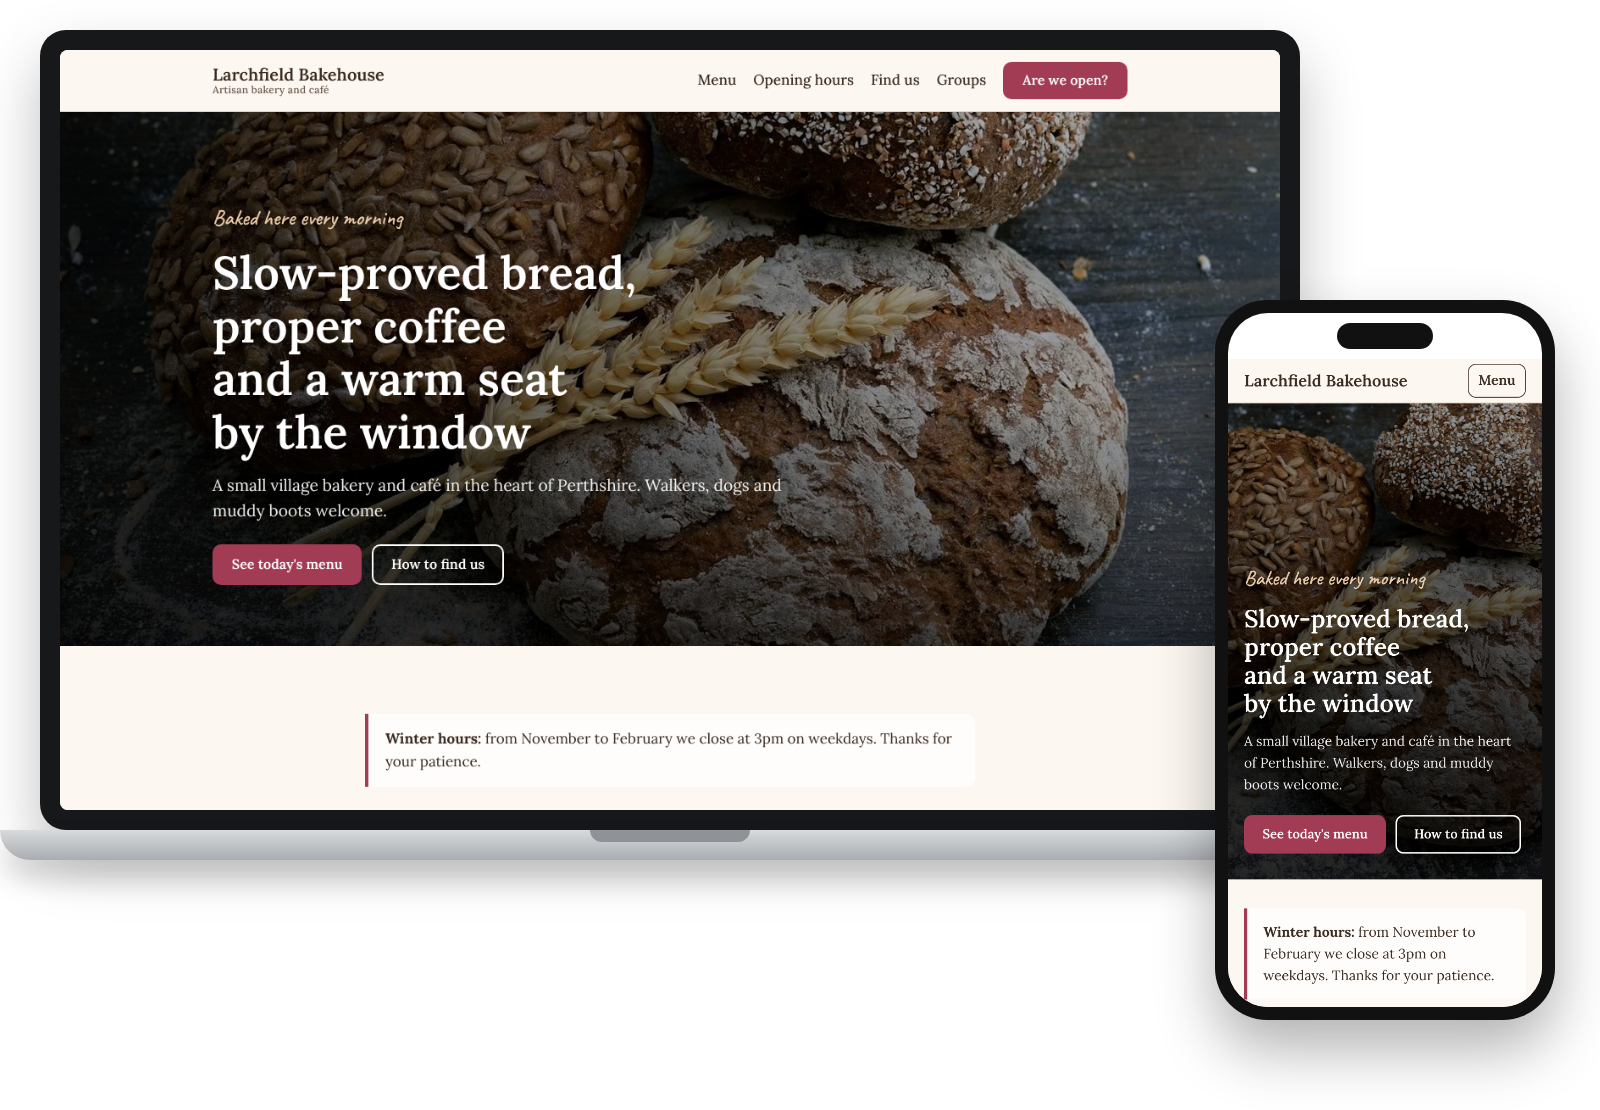
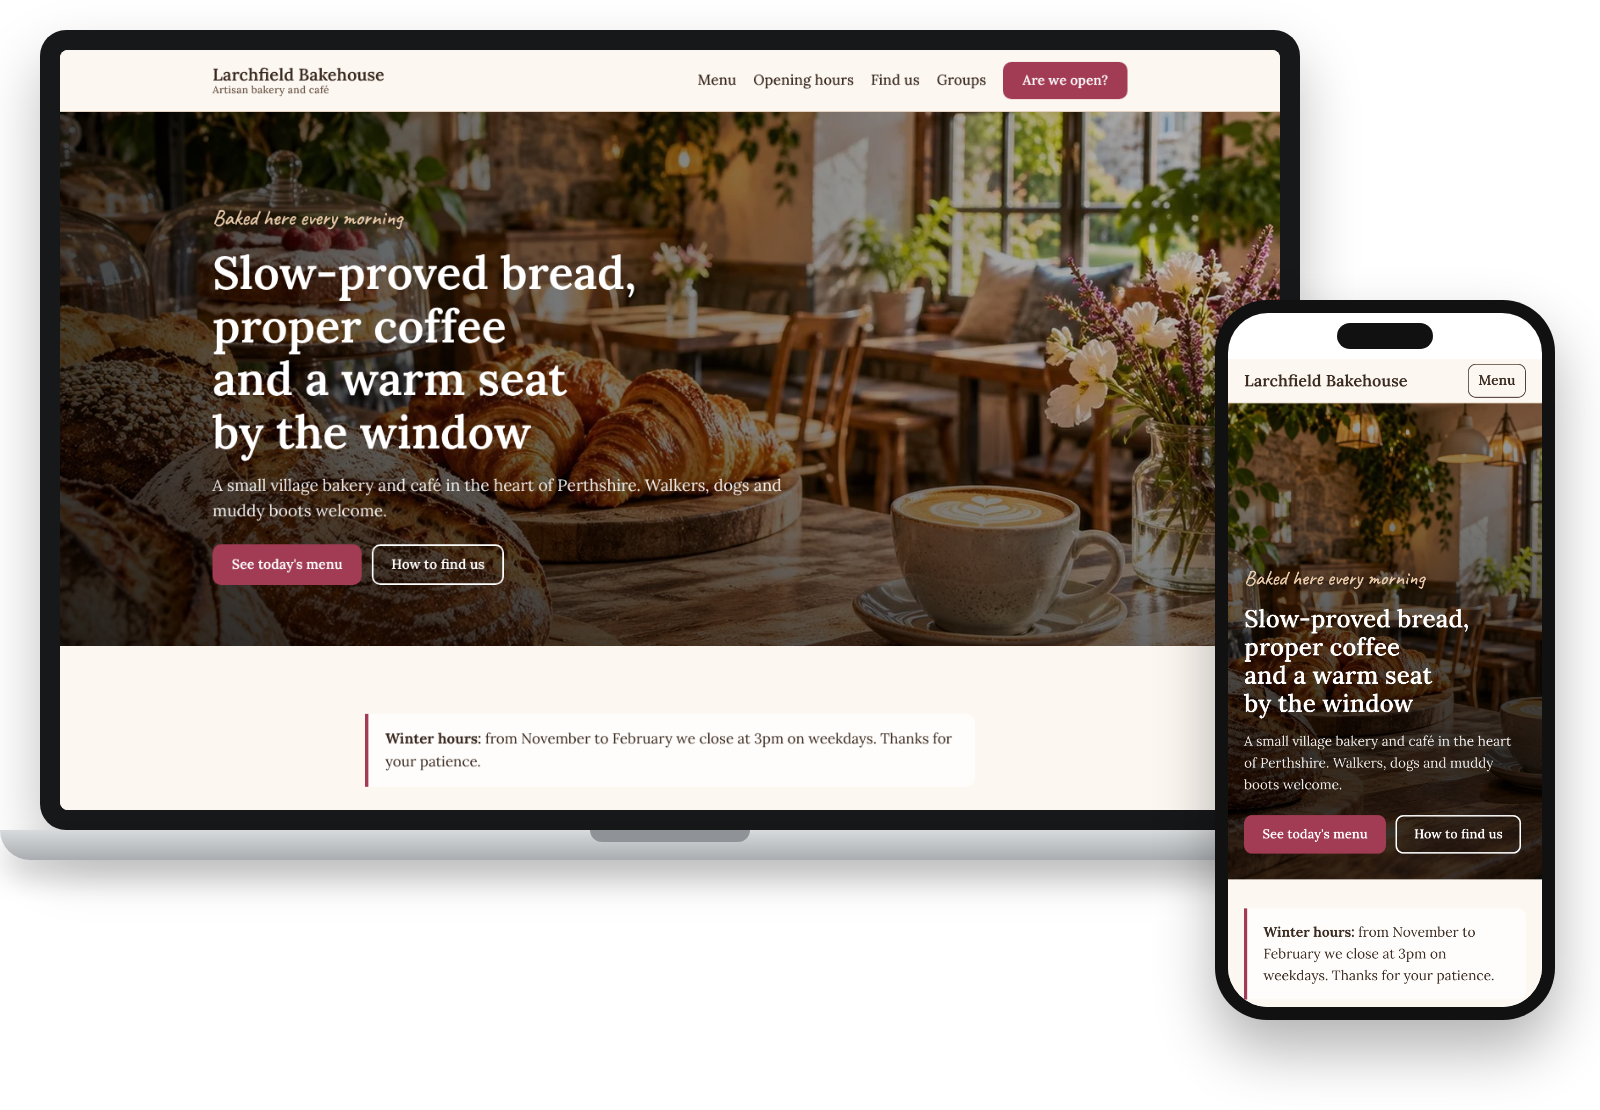
Use Charlotte's supplied images for homepage, websites page and demo heroes
Claude-Session: https://claude.ai/code/session_01JPSoeSjAHsrJMdiqpfhakr

diff --git a/projects/charlotte-bjuren-consultancy/src/styles/global.css b/projects/charlotte-bjuren-consultancy/src/styles/global.css
@@ -354,3 +354,5 @@ input:focus-visible, select:focus-visible, textarea:focus-visible { outline: 3px
 .bento > :nth-child(1) .media picture { display: block; height: 100%; }
 @media (min-width: 1000px) { .bento > :nth-child(1) .media img { height: 100%; min-height: 320px; } }
 @media (max-width: 999px) { .bento > :nth-child(1) .media img { aspect-ratio: 16 / 10; height: auto !important; } }
+
+.hero-photo { box-shadow: 0 24px 48px rgb(30 43 38 / .16); }

diff --git a/projects/charlotte-bjuren-consultancy/src/assets/photos/CREDITS.md b/projects/charlotte-bjuren-consultancy/src/assets/photos/CREDITS.md
@@ -28,14 +28,12 @@ Do not sell these photos unaltered, or present them as the work of a real client
 | aj-timber-frame.jpg | https://images.unsplash.com/photo-1590725140246-20acdee442be |
 | aj-kitchen-dark.jpg | https://images.unsplash.com/photo-1600489000022-c2086d79f9d4 |
 | aj-chair.jpg | https://images.unsplash.com/photo-1598300042247-d088f8ab3a91 |
-| cc-coach.jpg | https://images.unsplash.com/photo-1573497019940-1c28c88b4f3e |
 | cc-meeting-room.jpg | https://images.unsplash.com/photo-1462826303086-329426d1aef5 |
 | cc-workshop.jpg | https://images.unsplash.com/photo-1552664730-d307ca884978 |
 | cc-success.jpg | https://images.unsplash.com/photo-1600880292203-757bb62b4baf |
 | cc-office.jpg | https://images.unsplash.com/photo-1497366811353-6870744d04b2 |
 | cc-conversation.jpg | https://images.unsplash.com/photo-1517048676732-d65bc937f952 |
 | cc-bright-office.jpg | https://images.unsplash.com/photo-1497215728101-856f4ea42174 |
-| lb-bread.jpg | https://images.unsplash.com/photo-1509440159596-0249088772ff |
 | lb-loaf.jpg | https://images.unsplash.com/photo-1549931319-a545dcf3bc73 |
 | lb-croissants.jpg | https://images.unsplash.com/photo-1555507036-ab1f4038808a |
 | lb-pastry-case.jpg | https://images.unsplash.com/photo-1568254183919-78a4f43a2877 |
@@ -48,3 +46,16 @@ Do not sell these photos unaltered, or present them as the work of a real client
 | lb-cookies.jpg | https://images.unsplash.com/photo-1558961363-fa8fdf82db35 |
 | lb-cake.jpg | https://images.unsplash.com/photo-1578985545062-69928b1d9587 |
 | cb-charlotte.jpg | Charlotte Bjuren's own headshot, supplied by her |
+
+## Images supplied by Charlotte
+
+AI-generated images supplied by Charlotte Bjuren on 26 November 2026 for use on this website. Check the image generator's terms allow commercial use, and never present them as photos of real client work or of Charlotte herself.
+
+| File | Used for |
+|---|---|
+| cb-devices-highland.jpg | Homepage hero |
+| cb-devices-lake.jpg | Website design service card |
+| cb-devices-multi.jpg | Websites and pricing hero |
+| cc-consultation.jpg | Clearpath Coaching demo hero |
+| lb-bakery-counter.jpg | Larchfield Bakehouse demo hero |
+| aj-oak-kitchen-loch.jpg | Ardvane Joinery demo hero |
